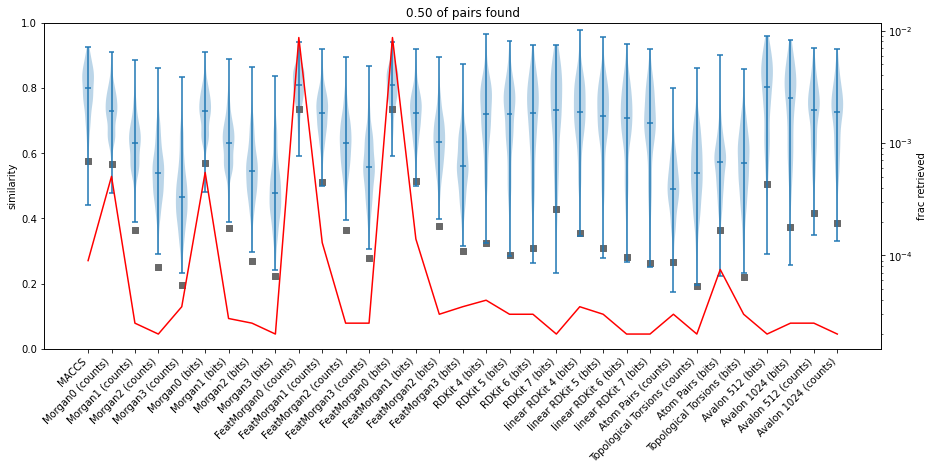
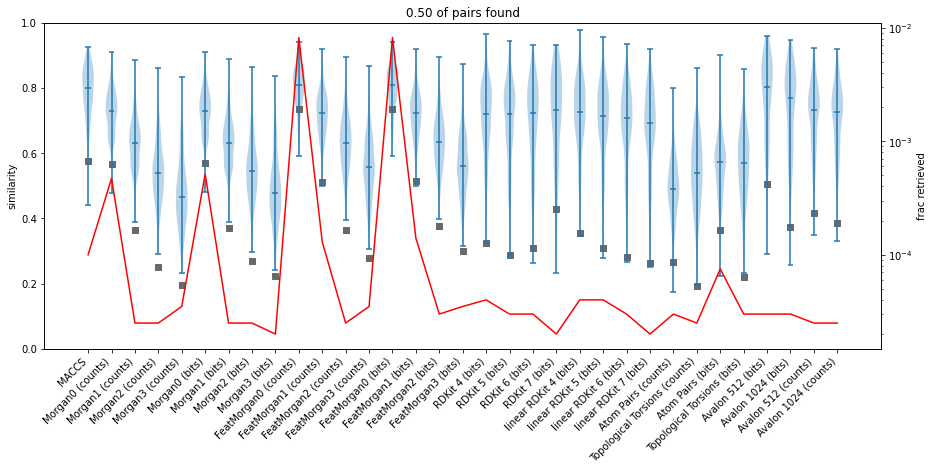
updated background search results

diff --git a/_posts/2021-05-21-similarity-search-thresholds.md b/_posts/2021-05-21-similarity-search-thresholds.md
@@ -7,6 +7,10 @@ title: Fingerprint similarity thresholds for database searches
 image: images/blog/similarity-search-threshold1-img1.png
 ---
 
+**Updated 22.05.2021 after I ran the background retrieval experiments using 5K
+random molecules from the "Related" set instead of the 1K in the original post.
+This doesn't have a major impact on results.
+
 # Prologue
 If you're interested in this topic and have questions, notice mistakes in my
 analysis, or have suggestions or ideas for improving this (particularly when it
@@ -73,7 +77,8 @@ Here are what the results look like for bit-based MFP2:
 <tr><th></th> <th></th> <th colspan="2">0.95 of related compounds</th> <th colspan="2">0.9 of related compounds</th> <th colspan="2">0.8 of related compounds</th> <th colspan="2">0.5 of related compounds</th></tr>
 <tr><th>Fingerprint</th> <th>0.95 noise level</th> <th>threshold</th> <th>db fraction / count per million</th> <th>threshold</th> <th>db fraction / count per million</th> <th>threshold</th> <th>db fraction / count per million</th> <th>threshold</th> <th>db fraction / count per million</th></tr>
 <tr>
-<td><b>Morgan2 (bits)</b></td> <td>0.27</td> <td>0.35</td> <td>0.004 / 4004</td> <td>0.4</td> <td>0.00022 / 220</td> <td>0.45</td> <td>0.00013 / 130</td> <td>0.55</td> <td>2.5e-05 / 25</td> </tr>
+<td><b>Morgan2 (bits)</b></td> <td>0.27</td> <td>0.35</td> <td>0.0036 / 3567</td> <td>0.4</td> <td>0.00023 / 230</td> <td>0.45</td> <td>0.00014 / 135</td> <td>0.55</td> <td>2.5e-05 / 25</td> </tr>
+<tr>
 </table>
 
 The 0.95 noise level (from the previous analysis) for this FP is 0.27. If I want
@@ -97,72 +102,73 @@ With that explained, here's the full results table:
 <tr><th></th> <th></th> <th colspan="2">0.95 of related compounds</th> <th colspan="2">0.9 of related compounds</th> <th colspan="2">0.8 of related compounds</th> <th colspan="2">0.5 of related compounds</th></tr>
 <tr><th>Fingerprint</th> <th>0.95 noise level</th> <th>threshold</th> <th>db fraction / count per million</th> <th>threshold</th> <th>db fraction / count per million</th> <th>threshold</th> <th>db fraction / count per million</th> <th>threshold</th> <th>db fraction / count per million</th></tr>
 <tr>
-<td><b>MACCS</b></td> <td>0.57</td> <td>0.6</td> <td>0.043 / 42525</td> <td>0.65</td> <td>0.023 / 22692</td> <td>0.7</td> <td>0.0029 / 2860</td> <td>0.8</td> <td>9e-05 / 90</td> </tr>
+<td><b>MACCS</b></td> <td>0.57</td> <td>0.6</td> <td>0.043 / 42650</td> <td>0.65</td> <td>0.023 / 22840</td> <td>0.7</td> <td>0.003 / 3030</td> <td>0.8</td> <td>0.0001 / 100</td> </tr>
 <tr>
-<td><b>Morgan0 (counts)</b></td> <td>0.57</td> <td>0.55</td> <td>0.06 / 60417</td> <td>0.6</td> <td>0.015 / 14750</td> <td>0.65</td> <td>0.0079 / 7860</td> <td>0.75</td> <td>0.00051 / 505</td> </tr>
+<td><b>Morgan0 (counts)</b></td> <td>0.57</td> <td>0.55</td> <td>0.058 / 58467</td> <td>0.6</td> <td>0.014 / 14240</td> <td>0.65</td> <td>0.0076 / 7570</td> <td>0.75</td> <td>0.00047 / 470</td> </tr>
 <tr>
-<td><b>Morgan1 (counts)</b></td> <td>0.36</td> <td>0.45</td> <td>0.0048 / 4807</td> <td>0.5</td> <td>0.00034 / 335</td> <td>0.55</td> <td>0.00019 / 187</td> <td>0.65</td> <td>2.5e-05 / 25</td> </tr>
+<td><b>Morgan1 (counts)</b></td> <td>0.36</td> <td>0.45</td> <td>0.0042 / 4230</td> <td>0.5</td> <td>0.00032 / 320</td> <td>0.55</td> <td>0.00018 / 180</td> <td>0.65</td> <td>2.5e-05 / 25</td> </tr>
 <tr>
-<td><b>Morgan2 (counts)</b></td> <td>0.25</td> <td>0.35</td> <td>0.0021 / 2092</td> <td>0.4</td> <td>0.00017 / 170</td> <td>0.45</td> <td>0.0001 / 100</td> <td>0.55</td> <td>2e-05 / 20</td> </tr>
+<td><b>Morgan2 (counts)</b></td> <td>0.25</td> <td>0.35</td> <td>0.0018 / 1802</td> <td>0.4</td> <td>0.00017 / 170</td> <td>0.45</td> <td>0.00011 / 105</td> <td>0.55</td> <td>2.5e-05 / 25</td> </tr>
 <tr>
 <td><b>Morgan3 (counts)</b></td> <td>0.20</td> <td>0.3</td> <td>0.00032 / 320</td> <td>0.3</td> <td>0.00032 / 320</td> <td>0.35</td> <td>0.00018 / 184</td> <td>0.45</td> <td>3.5e-05 / 35</td> </tr>
 <tr>
-<td><b>Morgan0 (bits)</b></td> <td>0.57</td> <td>0.55</td> <td>0.064 / 63897</td> <td>0.6</td> <td>0.016 / 16065</td> <td>0.65</td> <td>0.0086 / 8560</td> <td>0.75</td> <td>0.00055 / 547</td> </tr>
+<td><b>Morgan0 (bits)</b></td> <td>0.57</td> <td>0.55</td> <td>0.062 / 61650</td> <td>0.6</td> <td>0.016 / 15515</td> <td>0.65</td> <td>0.0083 / 8250</td> <td>0.75</td> <td>0.00051 / 512</td> </tr>
 <tr>
-<td><b>Morgan1 (bits)</b></td> <td>0.37</td> <td>0.45</td> <td>0.006 / 5957</td> <td>0.5</td> <td>0.0004 / 400</td> <td>0.55</td> <td>0.00022 / 222</td> <td>0.65</td> <td>2.8e-05 / 27</td> </tr>
+<td><b>Morgan1 (bits)</b></td> <td>0.37</td> <td>0.45</td> <td>0.0052 / 5217</td> <td>0.5</td> <td>0.00038 / 380</td> <td>0.55</td> <td>0.00021 / 210</td> <td>0.65</td> <td>2.5e-05 / 25</td> </tr>
 <tr>
-<td><b>Morgan2 (bits)</b></td> <td>0.27</td> <td>0.35</td> <td>0.004 / 4004</td> <td>0.4</td> <td>0.00022 / 220</td> <td>0.45</td> <td>0.00013 / 130</td> <td>0.55</td> <td>2.5e-05 / 25</td> </tr>
+<td><b>Morgan2 (bits)</b></td> <td>0.27</td> <td>0.35</td> <td>0.0036 / 3567</td> <td>0.4</td> <td>0.00023 / 230</td> <td>0.45</td> <td>0.00014 / 135</td> <td>0.55</td> <td>2.5e-05 / 25</td> </tr>
 <tr>
-<td><b>Morgan3 (bits)</b></td> <td>0.22</td> <td>0.3</td> <td>0.00068 / 685</td> <td>0.35</td> <td>0.00037 / 372</td> <td>0.35</td> <td>0.00037 / 372</td> <td>0.5</td> <td>2e-05 / 20</td> </tr>
+<td><b>Morgan3 (bits)</b></td> <td>0.22</td> <td>0.3</td> <td>0.00063 / 630</td> <td>0.35</td> <td>0.00034 / 344</td> <td>0.35</td> <td>0.00034 / 344</td> <td>0.5</td> <td>2e-05 / 20</td> </tr>
 <tr>
-<td><b>FeatMorgan0 (counts)</b></td> <td>0.74</td> <td>0.6</td> <td>0.26 / 260585</td> <td>0.65</td> <td>0.17 / 167575</td> <td>0.7</td> <td>0.075 / 74565</td> <td>0.8</td> <td>0.0087 / 8675</td> </tr>
+<td><b>FeatMorgan0 (counts)</b></td> <td>0.74</td> <td>0.6</td> <td>0.25 / 246595</td> <td>0.65</td> <td>0.16 / 157367</td> <td>0.7</td> <td>0.068 / 68140</td> <td>0.8</td> <td>0.0082 / 8195</td> </tr>
 <tr>
-<td><b>FeatMorgan1 (counts)</b></td> <td>0.51</td> <td>0.55</td> <td>0.023 / 23055</td> <td>0.55</td> <td>0.023 / 23055</td> <td>0.6</td> <td>0.003 / 2985</td> <td>0.7</td> <td>0.00013 / 130</td> </tr>
+<td><b>FeatMorgan1 (counts)</b></td> <td>0.51</td> <td>0.55</td> <td>0.021 / 21037</td> <td>0.55</td> <td>0.021 / 21037</td> <td>0.6</td> <td>0.0026 / 2610</td> <td>0.7</td> <td>0.00013 / 130</td> </tr>
 <tr>
-<td><b>FeatMorgan2 (counts)</b></td> <td>0.36</td> <td>0.45</td> <td>0.0048 / 4835</td> <td>0.5</td> <td>0.0003 / 295</td> <td>0.55</td> <td>0.00017 / 167</td> <td>0.65</td> <td>2.5e-05 / 25</td> </tr>
+<td><b>FeatMorgan2 (counts)</b></td> <td>0.36</td> <td>0.45</td> <td>0.004 / 4050</td> <td>0.5</td> <td>0.00027 / 270</td> <td>0.55</td> <td>0.00016 / 155</td> <td>0.65</td> <td>2.5e-05 / 25</td> </tr>
 <tr>
-<td><b>FeatMorgan3 (counts)</b></td> <td>0.28</td> <td>0.35</td> <td>0.0063 / 6264</td> <td>0.4</td> <td>0.0003 / 300</td> <td>0.45</td> <td>0.00017 / 169</td> <td>0.55</td> <td>2.5e-05 / 25</td> </tr>
+<td><b>FeatMorgan3 (counts)</b></td> <td>0.28</td> <td>0.35</td> <td>0.0054 / 5412</td> <td>0.4</td> <td>0.00028 / 280</td> <td>0.45</td> <td>0.00016 / 165</td> <td>0.55</td> <td>3.5e-05 / 35</td> </tr>
 <tr>
-<td><b>FeatMorgan0 (bits)</b></td> <td>0.74</td> <td>0.6</td> <td>0.26 / 260585</td> <td>0.65</td> <td>0.17 / 167575</td> <td>0.7</td> <td>0.075 / 74565</td> <td>0.8</td> <td>0.0087 / 8675</td> </tr>
+<td><b>FeatMorgan0 (bits)</b></td> <td>0.74</td> <td>0.6</td> <td>0.25 / 246595</td> <td>0.65</td> <td>0.16 / 157367</td> <td>0.7</td> <td>0.068 / 68140</td> <td>0.8</td> <td>0.0082 / 8195</td> </tr>
 <tr>
-<td><b>FeatMorgan1 (bits)</b></td> <td>0.51</td> <td>0.55</td> <td>0.026 / 25797</td> <td>0.55</td> <td>0.026 / 25797</td> <td>0.6</td> <td>0.0033 / 3330</td> <td>0.7</td> <td>0.00014 / 140</td> </tr>
+<td><b>FeatMorgan1 (bits)</b></td> <td>0.51</td> <td>0.55</td> <td>0.023 / 23195</td> <td>0.55</td> <td>0.023 / 23195</td> <td>0.6</td> <td>0.003 / 3010</td> <td>0.7</td> <td>0.00014 / 140</td> </tr>
 <tr>
-<td><b>FeatMorgan2 (bits)</b></td> <td>0.38</td> <td>0.45</td> <td>0.0072 / 7217</td> <td>0.5</td> <td>0.00039 / 390</td> <td>0.55</td> <td>0.00022 / 220</td> <td>0.65</td> <td>3e-05 / 30</td> </tr>
+<td><b>FeatMorgan2 (bits)</b></td> <td>0.38</td> <td>0.45</td> <td>0.0065 / 6452</td> <td>0.5</td> <td>0.00036 / 360</td> <td>0.55</td> <td>0.00021 / 205</td> <td>0.65</td> <td>3e-05 / 30</td> </tr>
 <tr>
-<td><b>FeatMorgan3 (bits)</b></td> <td>0.30</td> <td>0.4</td> <td>0.00049 / 490</td> <td>0.4</td> <td>0.00049 / 490</td> <td>0.45</td> <td>0.00027 / 270</td> <td>0.55</td> <td>3.5e-05 / 35</td> </tr>
+<td><b>FeatMorgan3 (bits)</b></td> <td>0.30</td> <td>0.4</td> <td>0.00045 / 450</td> <td>0.4</td> <td>0.00045 / 450</td> <td>0.45</td> <td>0.00025 / 250</td> <td>0.55</td> <td>3.5e-05 / 35</td> </tr>
 <tr>
-<td><b>RDKit 4 (bits)</b></td> <td>0.33</td> <td>0.5</td> <td>0.00094 / 945</td> <td>0.55</td> <td>0.00055 / 547</td> <td>0.6</td> <td>0.00015 / 150</td> <td>0.7</td> <td>4e-05 / 40</td> </tr>
+<td><b>RDKit 4 (bits)</b></td> <td>0.33</td> <td>0.5</td> <td>0.0011 / 1120</td> <td>0.55</td> <td>0.00065 / 645</td> <td>0.6</td> <td>0.00017 / 170</td> <td>0.7</td> <td>4e-05 / 40</td> </tr>
 <tr>
-<td><b>RDKit 5 (bits)</b></td> <td>0.29</td> <td>0.5</td> <td>0.00035 / 350</td> <td>0.55</td> <td>0.00021 / 212</td> <td>0.6</td> <td>7.5e-05 / 75</td> <td>0.7</td> <td>3e-05 / 30</td> </tr>
+<td><b>RDKit 5 (bits)</b></td> <td>0.29</td> <td>0.5</td> <td>0.0004 / 400</td> <td>0.55</td> <td>0.00025 / 245</td> <td>0.6</td> <td>9e-05 / 90</td> <td>0.7</td> <td>3e-05 / 30</td> </tr>
 <tr>
-<td><b>RDKit 6 (bits)</b></td> <td>0.31</td> <td>0.5</td> <td>0.00026 / 260</td> <td>0.55</td> <td>0.00017 / 165</td> <td>0.6</td> <td>7e-05 / 70</td> <td>0.7</td> <td>3e-05 / 30</td> </tr>
+<td><b>RDKit 6 (bits)</b></td> <td>0.31</td> <td>0.5</td> <td>0.00027 / 270</td> <td>0.55</td> <td>0.00017 / 170</td> <td>0.6</td> <td>7e-05 / 70</td> <td>0.7</td> <td>3e-05 / 30</td> </tr>
 <tr>
-<td><b>RDKit 7 (bits)</b></td> <td>0.43</td> <td>0.5</td> <td>0.00085 / 850</td> <td>0.6</td> <td>9e-05 / 90</td> <td>0.65</td> <td>6e-05 / 60</td> <td>0.75</td> <td>2e-05 / 20</td> </tr>
+<td><b>RDKit 7 (bits)</b></td> <td>0.43</td> <td>0.5</td> <td>0.0011 / 1150</td> <td>0.6</td> <td>9e-05 / 90</td> <td>0.65</td> <td>6e-05 / 60</td> <td>0.75</td> <td>2e-05 / 20</td> </tr>
 <tr>
-<td><b>linear RDKit 4 (bits)</b></td> <td>0.35</td> <td>0.5</td> <td>0.002 / 1970</td> <td>0.55</td> <td>0.0011 / 1115</td> <td>0.6</td> <td>0.00026 / 260</td> <td>0.75</td> <td>3.5e-05 / 35</td> </tr>
+<td><b>linear RDKit 4 (bits)</b></td> <td>0.35</td> <td>0.5</td> <td>0.0023 / 2255</td> <td>0.55</td> <td>0.0013 / 1277</td> <td>0.6</td> <td>0.0003 / 300</td> <td>0.75</td> <td>4e-05 / 40</td> </tr>
 <tr>
-<td><b>linear RDKit 5 (bits)</b></td> <td>0.31</td> <td>0.45</td> <td>0.0032 / 3199</td> <td>0.55</td> <td>0.00035 / 345</td> <td>0.6</td> <td>0.00011 / 110</td> <td>0.7</td> <td>3e-05 / 30</td> </tr>
+<td><b>linear RDKit 5 (bits)</b></td> <td>0.31</td> <td>0.45</td> <td>0.0036 / 3590</td> <td>0.55</td> <td>0.0004 / 400</td> <td>0.6</td> <td>0.00013 / 130</td> <td>0.7</td> <td>4e-05 / 40</td> </tr>
 <tr>
-<td><b>linear RDKit 6 (bits)</b></td> <td>0.28</td> <td>0.45</td> <td>0.0013 / 1347</td> <td>0.5</td> <td>0.0003 / 300</td> <td>0.6</td> <td>7e-05 / 70</td> <td>0.7</td> <td>2e-05 / 20</td> </tr>
+<td><b>linear RDKit 6 (bits)</b></td> <td>0.28</td> <td>0.45</td> <td>0.0015 / 1525</td> <td>0.5</td> <td>0.00033 / 330</td> <td>0.6</td> <td>8e-05 / 80</td> <td>0.7</td> <td>3e-05 / 30</td> </tr>
 <tr>
-<td><b>linear RDKit 7 (bits)</b></td> <td>0.26</td> <td>0.45</td> <td>0.00068 / 685</td> <td>0.5</td> <td>0.00017 / 170</td> <td>0.55</td> <td>0.00011 / 110</td> <td>0.7</td> <td>2e-05 / 20</td> </tr>
+<td><b>linear RDKit 7 (bits)</b></td> <td>0.26</td> <td>0.45</td> <td>0.00076 / 755</td> <td>0.5</td> <td>0.0002 / 200</td> <td>0.55</td> <td>0.00013 / 130</td> <td>0.7</td> <td>2e-05 / 20</td> </tr>
 <tr>
-<td><b>Atom Pairs (counts)</b></td> <td>0.27</td> <td>0.3</td> <td>0.006 / 5970</td> <td>0.35</td> <td>0.0031 / 3069</td> <td>0.4</td> <td>0.00017 / 170</td> <td>0.5</td> <td>3e-05 / 30</td> </tr>
+<td><b>Atom Pairs (counts)</b></td> <td>0.27</td> <td>0.3</td> <td>0.0057 / 5730</td> <td>0.35</td> <td>0.0029 / 2949</td> <td>0.4</td> <td>0.00017 / 170</td> <td>0.5</td> <td>3e-05 / 30</td> </tr>
 <tr>
-<td><b>Topological Torsions (counts)</b></td> <td>0.19</td> <td>0.3</td> <td>0.0008 / 800</td> <td>0.35</td> <td>0.00046 / 459</td> <td>0.45</td> <td>7.5e-05 / 75</td> <td>0.55</td> <td>2e-05 / 20</td> </tr>
+<td><b>Topological Torsions (counts)</b></td> <td>0.19</td> <td>0.3</td> <td>0.00078 / 780</td> <td>0.35</td> <td>0.00045 / 449</td> <td>0.45</td> <td>8e-05 / 80</td> <td>0.55</td> <td>2.5e-05 / 25</td> </tr>
 <tr>
-<td><b>Atom Pairs (bits)</b></td> <td>0.36</td> <td>0.4</td> <td>0.01 / 10055</td> <td>0.45</td> <td>0.0051 / 5092</td> <td>0.5</td> <td>0.00013 / 130</td> <td>0.55</td> <td>7.5e-05 / 75</td> </tr>
+<td><b>Atom Pairs (bits)</b></td> <td>0.36</td> <td>0.4</td> <td>0.009 / 8960</td> <td>0.45</td> <td>0.0045 / 4545</td> <td>0.5</td> <td>0.00013 / 130</td> <td>0.55</td> <td>7.5e-05 / 75</td> </tr>
 <tr>
-<td><b>Topological Torsions (bits)</b></td> <td>0.22</td> <td>0.35</td> <td>0.00097 / 969</td> <td>0.4</td> <td>0.00017 / 170</td> <td>0.45</td> <td>0.00011 / 105</td> <td>0.55</td> <td>3e-05 / 30</td> </tr>
+<td><b>Topological Torsions (bits)</b></td> <td>0.22</td> <td>0.35</td> <td>0.00093 / 934</td> <td>0.4</td> <td>0.00017 / 170</td> <td>0.45</td> <td>0.00011 / 105</td> <td>0.55</td> <td>3e-05 / 30</td> </tr>
 <tr>
-<td><b>Avalon 512 (bits)</b></td> <td>0.51</td> <td>0.6</td> <td>0.00061 / 615</td> <td>0.65</td> <td>0.00035 / 347</td> <td>0.7</td> <td>8e-05 / 80</td> <td>0.8</td> <td>2e-05 / 20</td> </tr>
+<td><b>Avalon 512 (bits)</b></td> <td>0.51</td> <td>0.6</td> <td>0.00082 / 820</td> <td>0.65</td> <td>0.00046 / 455</td> <td>0.7</td> <td>9e-05 / 90</td> <td>0.8</td> <td>3e-05 / 30</td> </tr>
 <tr>
-<td><b>Avalon 1024 (bits)</b></td> <td>0.37</td> <td>0.55</td> <td>0.00074 / 737</td> <td>0.6</td> <td>0.00015 / 150</td> <td>0.65</td> <td>9.5e-05 / 95</td> <td>0.75</td> <td>2.5e-05 / 25</td> </tr>
+<td><b>Avalon 1024 (bits)</b></td> <td>0.37</td> <td>0.55</td> <td>0.00083 / 830</td> <td>0.6</td> <td>0.00017 / 170</td> <td>0.65</td> <td>0.00011 / 105</td> <td>0.75</td> <td>3e-05 / 30</td> </tr>
 <tr>
-<td><b>Avalon 512 (counts)</b></td> <td>0.42</td> <td>0.5</td> <td>0.004 / 3975</td> <td>0.55</td> <td>0.0021 / 2122</td> <td>0.65</td> <td>0.00016 / 155</td> <td>0.75</td> <td>2.5e-05 / 25</td> </tr>
+<td><b>Avalon 512 (counts)</b></td> <td>0.42</td> <td>0.5</td> <td>0.0042 / 4180</td> <td>0.55</td> <td>0.0022 / 2215</td> <td>0.65</td> <td>0.00015 / 145</td> <td>0.75</td> <td>2.5e-05 / 25</td> </tr>
 <tr>
-<td><b>Avalon 1024 (counts)</b></td> <td>0.38</td> <td>0.5</td> <td>0.0018 / 1820</td> <td>0.55</td> <td>0.00099 / 992</td> <td>0.6</td> <td>0.00016 / 165</td> <td>0.75</td> <td>2e-05 / 20</td> </tr>
+<td><b>Avalon 1024 (counts)</b></td> <td>0.38</td> <td>0.5</td> <td>0.0019 / 1890</td> <td>0.55</td> <td>0.001 / 1030</td> <td>0.6</td> <td>0.00017 / 170</td> <td>0.75</td> <td>2.5e-05 / 25</td> </tr>
 </table>
+
 The threshold values are rounded to the nearest 0.05.
 
 
